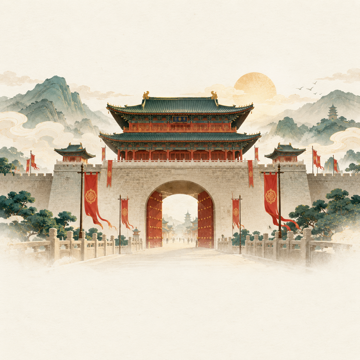
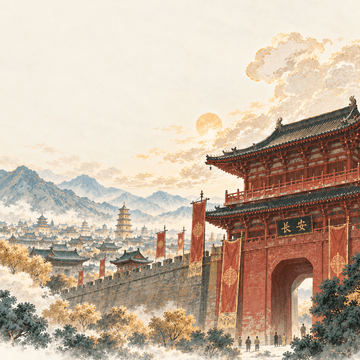
FEAT: (badge) 统一圆屏封面游戏选择与收藏展示风格

diff --git a/scripts/assets/preview-badge-display.ts b/scripts/assets/preview-badge-display.ts
@@ -1,0 +1,17 @@
+import sharp from "../../services/web/node_modules/sharp/dist/index.mjs";
+import {readFile} from "node:fs/promises";
+import {fileURLToPath} from "node:url";
+import {join} from "node:path";
+const root=fileURLToPath(new URL("../../",import.meta.url));
+const folder=join(root,"logs/badge-display-v1-preview");
+const pages=["home","selection","game","collection","gate-selection","poem-game"];
+const panels: {input:Buffer;left:number;top:number}[]=[];
+for(const [index,name] of pages.entries()){
+ const ppm=await readFile(join(folder,`${name}.ppm`));
+ const header=Buffer.from("P6\n360 360\n255\n");
+ if(!ppm.subarray(0,header.length).equals(header)||ppm.length!==header.length+360*360*3) throw new Error(`预览格式不符：${name}`);
+ const png=await sharp(ppm.subarray(header.length),{raw:{width:360,height:360,channels:3}}).png().toBuffer();
+ await sharp(png).toFile(join(folder,`${name}.png`));
+ panels.push({input:png,left:index%3*360,top:Math.floor(index/3)*360});
+}
+await sharp({create:{width:1080,height:720,channels:3,background:"#f7efdf"}}).composite(panels).png().toFile(join(folder,"overview.png"));

diff --git a/scripts/assets/prepare-badge-display.ts b/scripts/assets/prepare-badge-display.ts
@@ -1,0 +1,9 @@
+import sharp from "../../services/web/node_modules/sharp/dist/index.mjs";
+import {fileURLToPath} from "node:url";
+import {join} from "node:path";
+// 只缩小已有生成插画；游戏点击区域、奖励和三片拼图素材保持不变。
+const root=fileURLToPath(new URL("../../",import.meta.url));
+await sharp(join(root,"assets/web-display-v1/explore-hero.png"))
+ .resize(360,360,{fit:"cover",position:"centre"}).png({palette:true,colours:128})
+ .toFile(join(root,"assets/qin/cover.png"));
+console.log("圆屏封面：360×360，128色；复用网页生成插画。");

diff --git a/main/display/page/exploration/pg_exploration.c b/main/display/page/exploration/pg_exploration.c
@@ -102,11 +102,11 @@ static void title(const char *text)
 
 static void primary(lv_obj_t *object)
 {
-    lv_obj_set_style_bg_color(object, lv_color_hex(0x973e2d), 0);
-    lv_obj_set_style_border_color(object, lv_color_hex(0xc77953), 0);
+    lv_obj_set_style_bg_color(object, lv_color_hex(0x214b40), 0);
+    lv_obj_set_style_border_color(object, lv_color_hex(0x4f7464), 0);
     lv_obj_set_style_border_width(object, 1, 0);
     lv_obj_set_style_text_color(object, lv_color_hex(0xfff7e7), 0);
-    lv_obj_set_style_bg_color(object, lv_color_hex(0x803325), LV_STATE_PRESSED);
+    lv_obj_set_style_bg_color(object, lv_color_hex(0x173c32), LV_STATE_PRESSED);
 }
 
 static lv_obj_t *button(const char *text, int x, int y, int width,
@@ -115,12 +115,12 @@ static lv_obj_t *button(const char *text, int x, int y, int width,
     lv_obj_t *obj = lv_button_create(pg.root);
     lv_obj_set_size(obj, width, 54);
     lv_obj_set_pos(obj, x, y);
-    lv_obj_set_style_bg_color(obj, lv_color_hex(0xf1e5cd), 0);
+    lv_obj_set_style_bg_color(obj, lv_color_hex(0xf8eedb), 0);
     lv_obj_set_style_text_color(obj, lv_color_hex(0x263e30), 0);
     lv_obj_set_style_bg_color(obj, lv_color_hex(0xe2d0aa), LV_STATE_PRESSED);
-    lv_obj_set_style_border_color(obj, lv_color_hex(0xb99861), 0);
+    lv_obj_set_style_border_color(obj, lv_color_hex(0xd3ba90), 0);
     lv_obj_set_style_border_width(obj, text ? 1 : 0, 0);
-    lv_obj_set_style_radius(obj, text ? 16 : 9, 0);
+    lv_obj_set_style_radius(obj, text ? 12 : 9, 0);
     lv_obj_set_style_shadow_width(obj, 0, 0);
     lv_obj_set_style_pad_all(obj, 0, 0);
     if (callback) lv_obj_add_event_cb(obj, callback, LV_EVENT_CLICKED, (void *)value);
@@ -390,6 +390,38 @@ static bool art_card(qin_art_id_t art, int x, int y, int size)
     return qin_art_add(card, art, size, size);
 }
 
+// 只为选择页添加展示表面；不改变寻宝图片坐标和拼图拖放区域。
+static void selection_art(void)
+{
+    lv_obj_t *card = lv_obj_create(pg.root);
+    lv_obj_remove_style_all(card);
+    lv_obj_set_pos(card, 106, 62);
+    lv_obj_set_size(card, 148, 148);
+    lv_obj_set_style_bg_color(card, lv_color_hex(0xf3e5cb), 0);
+    lv_obj_set_style_bg_opa(card, LV_OPA_COVER, 0);
+    lv_obj_set_style_radius(card, 18, 0);
+    lv_obj_set_style_clip_corner(card, true, 0);
+    lv_obj_set_style_border_color(card, lv_color_hex(0xc6a673), 0);
+    lv_obj_set_style_border_width(card, 1, 0);
+    lv_obj_set_style_border_post(card, true, 0);
+    lv_obj_clear_flag(card, LV_OBJ_FLAG_CLICKABLE | LV_OBJ_FLAG_SCROLLABLE);
+    qin_art_add(card, game_art[pg.game], 140, 140);
+}
+
+static void page_markers(void)
+{
+    for (unsigned i = 0; i < GAME_COUNT; ++i) {
+        lv_obj_t *dot = lv_obj_create(pg.root);
+        lv_obj_remove_style_all(dot);
+        lv_obj_set_pos(dot, 161 + (int)i * 16, 234);
+        lv_obj_set_size(dot, i == (unsigned)pg.game ? 12 : 6, 4);
+        lv_obj_set_style_radius(dot, 2, 0);
+        lv_obj_set_style_bg_color(dot, lv_color_hex(i == (unsigned)pg.game ? 0xb64f32 : 0xd6c6a8), 0);
+        lv_obj_set_style_bg_opa(dot, LV_OPA_COVER, 0);
+        lv_obj_clear_flag(dot, LV_OBJ_FLAG_CLICKABLE | LV_OBJ_FLAG_SCROLLABLE);
+    }
+}
+
 static void render_bonus_game(void)
 {
     bonus_round_t round = pg.snapshot.rounds[pg.game - 1];
@@ -486,7 +518,7 @@ static void render(void)
         lv_obj_set_pos(art, 108, 76);
         lv_obj_set_size(art, 144, 130);
         lv_obj_clear_flag(art, LV_OBJ_FLAG_CLICKABLE | LV_OBJ_FLAG_SCROLLABLE);
-        qin_art_add(art, game_art[pg.game], 144, 130);
+        qin_art_add(art, pg.game == GAME_QIN ? QIN_ART_REWARD : game_art[pg.game], 144, 130);
         label(pg.notice ? pg.notice : "通关，已加入收藏", 208);
         lv_obj_t *display = button("设为展示", 70, 238, 220, exhibit, 0);
         primary(display);
@@ -516,27 +548,25 @@ static void render(void)
             button("返回", 110, 276, 140, navigate, VIEW_GAMES);
         }
     } else if (pg.view == VIEW_GAMES || pg.view == VIEW_INTRO) {
-        lv_obj_t *art = lv_obj_create(pg.root);
-        lv_obj_remove_style_all(art);
-        lv_obj_set_pos(art, 116, 65);
-        lv_obj_set_size(art, 128, 128);
-        lv_obj_clear_flag(art, LV_OBJ_FLAG_CLICKABLE | LV_OBJ_FLAG_SCROLLABLE);
-        qin_art_add(art, game_art[pg.game], 128, 128);
+        selection_art();
         static const char *const indicators[] = {"1 / 3 · 左右滑动", "2 / 3 · 左右滑动", "3 / 3 · 左右滑动"};
         static const char *const descriptions[] = {"拖动三片，拼回秦俑", "按提示找门、旗、鼓", "补全两句唐诗"};
         lv_obj_t *status = label(pg.notice ? pg.notice : pg.view == VIEW_GAMES ? indicators[pg.game] :
-            pg.game != GAME_QIN || pg.progress.unlocked ? descriptions[pg.game] : "扫码解锁游戏", 194);
+            pg.game != GAME_QIN || pg.progress.unlocked ? descriptions[pg.game] : "扫码解锁游戏", 210);
+        lv_obj_set_style_transform_scale_x(status, 256, 0);
+        lv_obj_set_style_transform_scale_y(status, 256, 0);
         lv_obj_set_style_text_color(status, lv_color_hex(0x6e654d), 0);
+        if (pg.view == VIEW_GAMES) page_markers();
         bool resume = pg.game == GAME_QIN ? pg.game_started && pg.puzzle.placed_mask != 7 :
             pg.snapshot.rounds[pg.game - 1].started && pg.snapshot.rounds[pg.game - 1].stage < bonus_total(pg.game);
         lv_obj_t *play = button(pg.view == VIEW_GAMES ? game_names[pg.game] :
             (resume ? "继续游戏" : collected() ? "再玩一次" : "开始游戏"),
-            70, 226, 220, navigate, pg.view == VIEW_GAMES ? VIEW_INTRO : VIEW_GAME);
-        lv_obj_set_height(play, 50);
+            80, 242, 200, navigate, pg.view == VIEW_GAMES ? VIEW_INTRO : VIEW_GAME);
+        lv_obj_set_height(play, 40);
         primary(play);
         lv_obj_t *caption = lv_obj_get_child(play, 0);
-        lv_obj_set_style_transform_scale_x(caption, 384, 0);
-        lv_obj_set_style_transform_scale_y(caption, 384, 0);
+        lv_obj_set_style_transform_scale_x(caption, 352, 0);
+        lv_obj_set_style_transform_scale_y(caption, 352, 0);
         if (pg.view == VIEW_INTRO && pg.game == GAME_QIN && !pg.progress.unlocked) lv_obj_add_state(play, LV_STATE_DISABLED);
         lv_obj_set_height(button(pg.view == VIEW_GAMES ? "封面" : "返回", 82, 286, 94,
             navigate, pg.view == VIEW_GAMES ? VIEW_HOME : VIEW_GAMES), 44);
@@ -545,7 +575,10 @@ static void render(void)
         else
             lv_obj_set_height(button("收藏", 184, 286, 94, navigate, VIEW_COLLECTION), 44);
     } else {
-        lv_obj_t *play = button("开始探索", 70, 235, 220, navigate, VIEW_GAMES);
+        lv_obj_t *caption = label("一枚腰牌，一城故事", 78);
+        lv_obj_set_style_transform_scale_x(caption, 256, 0);
+        lv_obj_set_style_transform_scale_y(caption, 256, 0);
+        lv_obj_t *play = button("开始探索", 80, 235, 200, navigate, VIEW_GAMES);
         primary(play);
         lv_obj_set_height(play, 50);
         lv_obj_set_height(button("收藏", 82, 292, 94, navigate, VIEW_COLLECTION), 44);

diff --git a/docs/design/圆屏展示界面优化.md b/docs/design/圆屏展示界面优化.md
@@ -1,0 +1,32 @@
+# 圆屏展示界面优化
+
+本轮只优化360×360圆屏的软件展示，不连接、烧录、重启或控制实物，不改变路线推荐和网页数据。
+
+## 视觉与交互
+
+- 封面复用本轮网页的长安水彩插画，标题与辅助语置于上部留白，主入口使用墨绿按钮，保留收藏和设置入口。
+- 游戏选择和开始页采用金线插画卡框、较大主按钮和紧凑辅助操作；三个游戏仍通过左右滑动切换，当前游戏以朱砂短线标记。
+- 游玩页面保留三片拼图和寻宝热点的原有尺寸、位置及素材，只统一按钮表面，避免视觉更新破坏已验证的操作。
+- 成功页使用对应奖励图片；收藏及展示继续反映原有游戏进度，不生成虚假收藏。
+
+## 素材来源与尺寸
+
+封面源为 `assets/web-display-v1/explore-hero.png`，由上一轮内置 imagegen 生成；完整提示词见 `三页网页展示视觉稿与素材提示词.md`。本轮复用该素材，没有重新生成或改画图片。
+
+运行 `node scripts/assets/prepare-badge-display.ts`，将封面缩小到360×360并量化为128色，输出 `assets/qin/cover.png`。正式固件仍由既有LVGL图片转换管线生成有界、游程编码压缩素材，不嵌入原始高分辨率插画。
+
+## 软件验收
+
+通过 `scripts/test-qin-render.sh` 运行真实LVGL绘制入口与游戏页面回归，检查图片可见、坏图降级、秦俑拖拽、三个游戏左右切换、寻宝答题、诗句答题、设置返回保留进度与独立收藏展示。
+
+实际页面绘制缓冲保存在 `logs/badge-display-v1-preview/`；`overview.png` 上排为封面、游戏选择、秦俑游玩，下排为收藏、城门选择、诗句游玩。它是正式页面的软件绘制预览，不是实物照片。
+
+生成预览时应单独运行 `qin_page_test`，不要使用最后运行的坏图回归截图覆盖正常素材预览：
+
+```sh
+mkdir -p logs/badge-display-v1-preview
+QIN_PREVIEW_DIR="$PWD/logs/badge-display-v1-preview" build/qin-render-test/qin_page_test
+node scripts/assets/preview-badge-display.ts
+```
+
+实物烧录与触摸验收由用户处理，本轮未执行。
